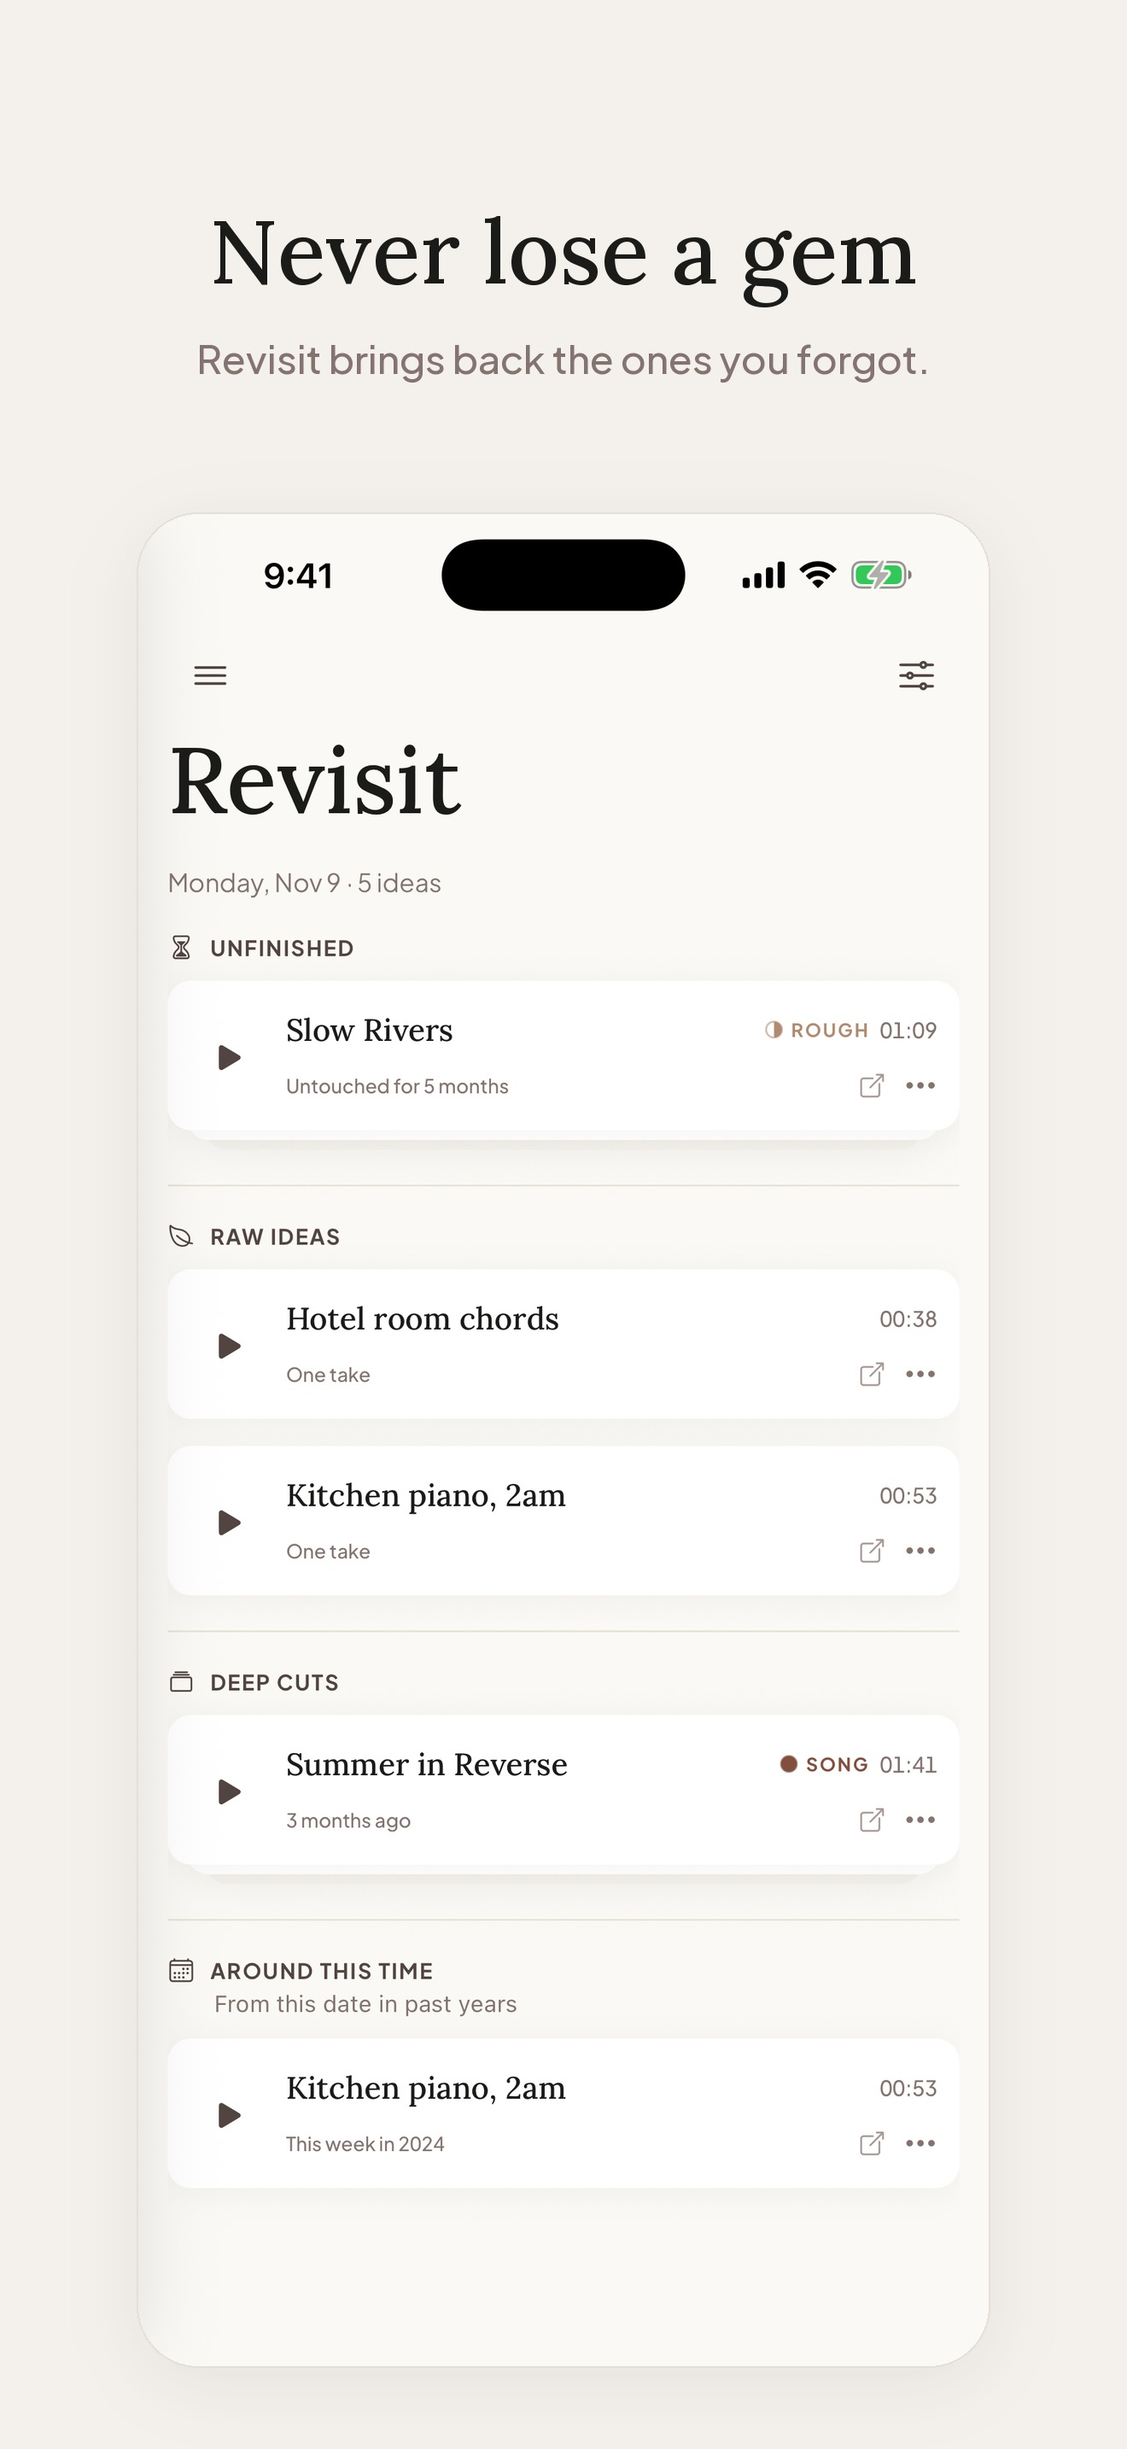
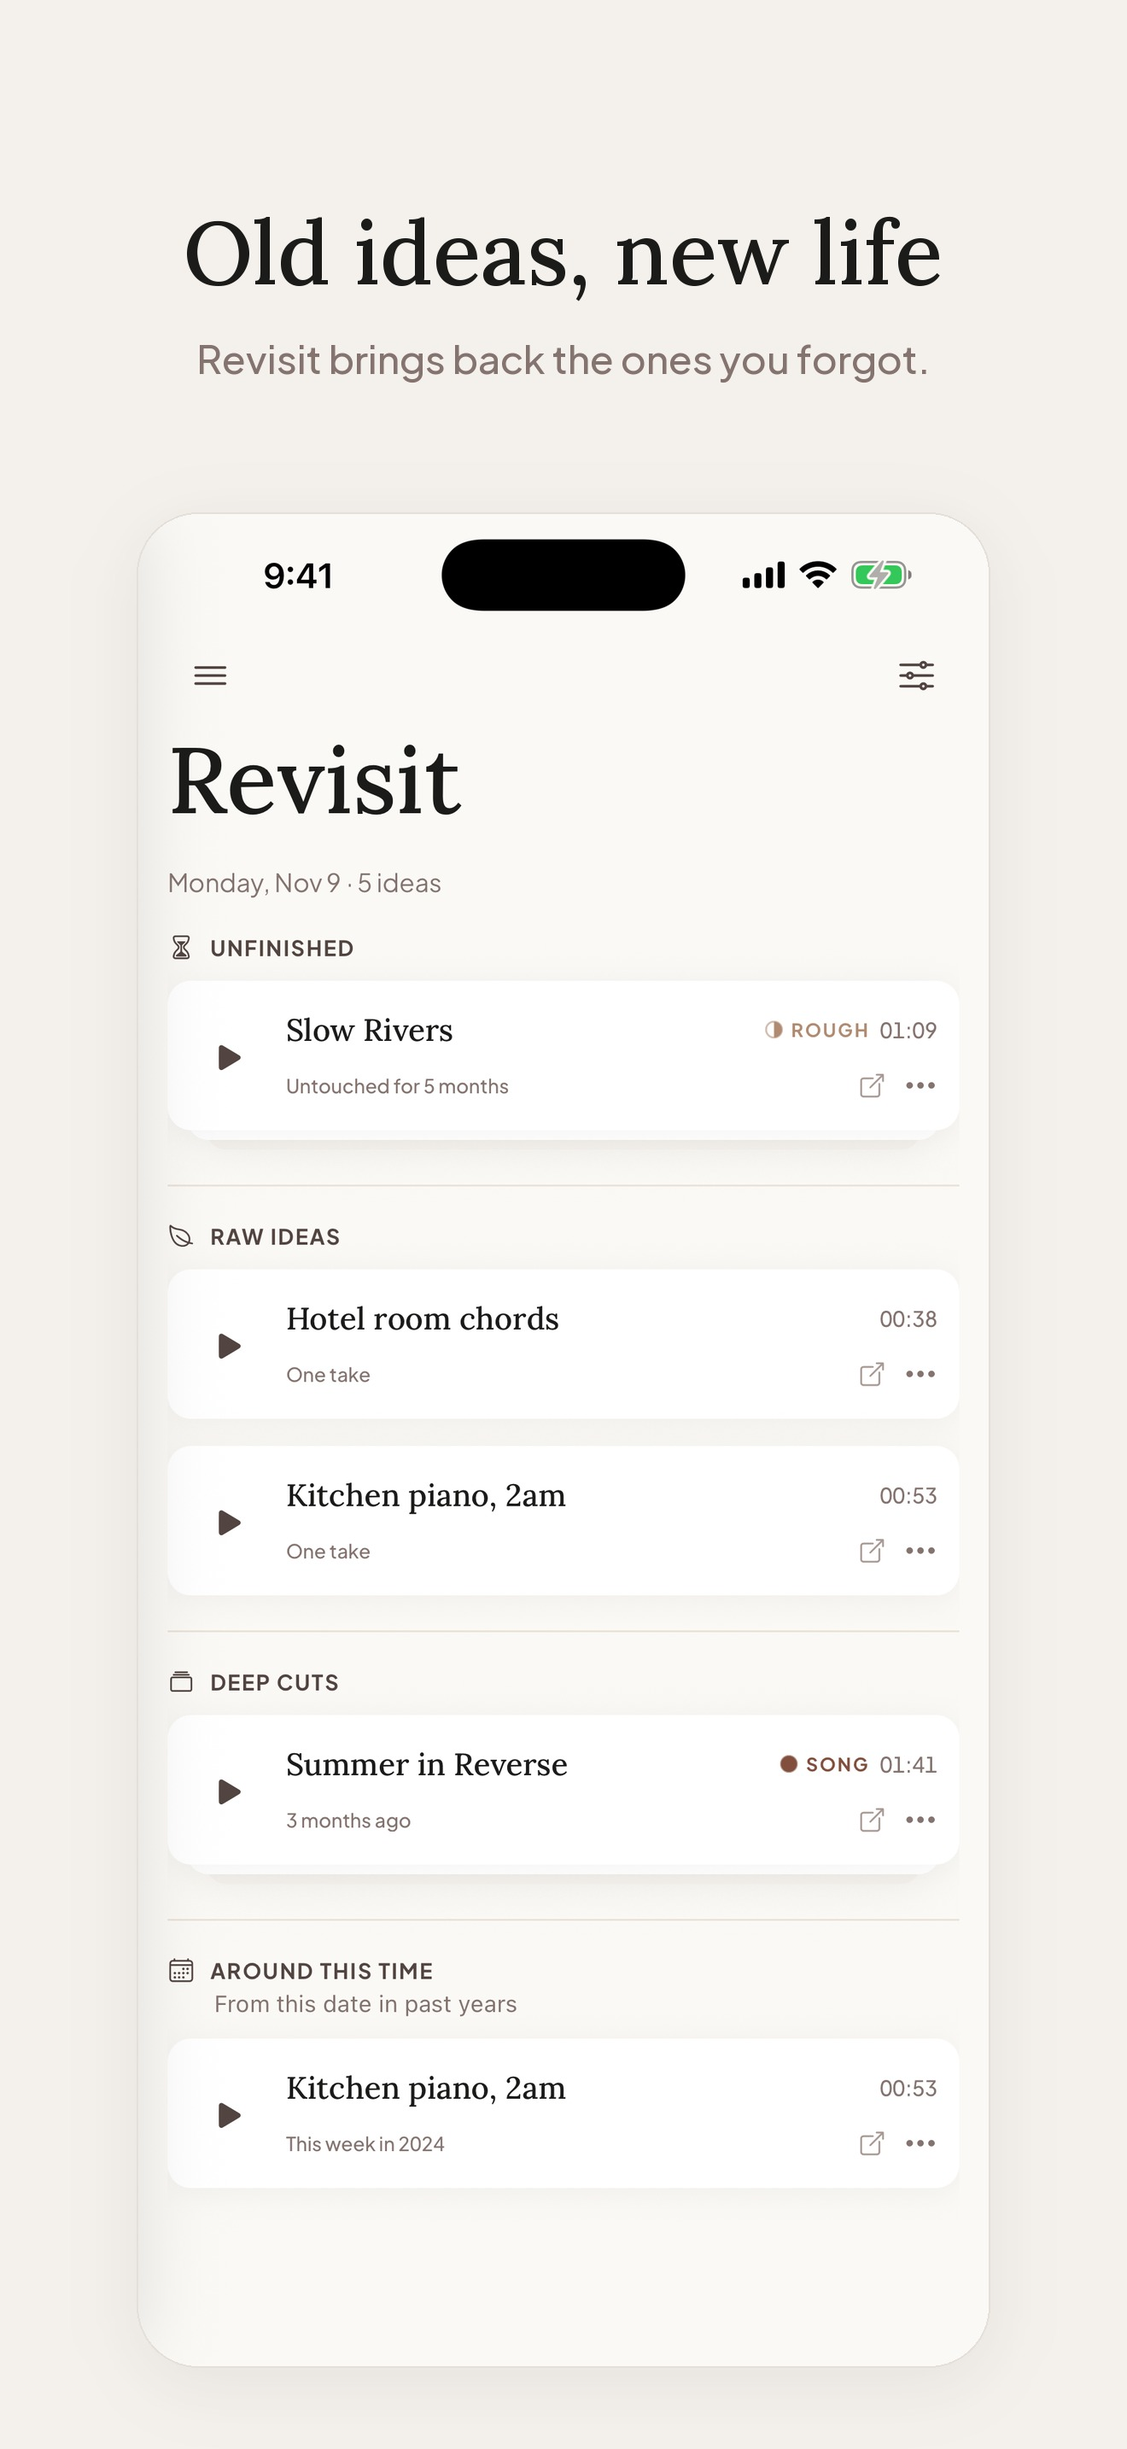
Store copy: the Play short description ends on "Never lose a gem"; screenshot 7 says "Old ideas, new life"
Founder preferred "Never lose a gem" over "Write, finish, learn the set" (all five
languages, each under 80). The Revisit screenshot carried that line too, right under the
short description on Play, so its caption moves to "Old ideas, new life" in five
languages (English re-cut for both stores). compose-screenshots.py: localized captions via
STORE_LANG, Hebrew right-to-left.

Changed region(s): [[0.1553, 0.0931, 0.7455, 0.1241], [0.7765, 0.0931, 0.8386, 0.1241]]

diff --git a/scripts/store/compose-screenshots.py b/scripts/store/compose-screenshots.py
@@ -11,6 +11,11 @@ library staged by the dev-only "Store library (dev)" collection menu row
   python3 scripts/store/compose-screenshots.py apple docs/store-assets/raw docs/store-assets/apple/screenshots
   python3 scripts/store/compose-screenshots.py play  docs/store-assets/raw docs/store-assets/play/screenshots
 
+Localized sets (2026-11-16): STORE_LANG=es|de|pt|he, raw captures in raw/<lang>/ (the app's
+own interface in that language; the demo library's song content stays as staged), out to
+<store>/screenshots/<lang>/. Hebrew draws in Frank Ruhl Libre / Heebo, reordered for
+right-to-left with python-bidi (Pillow here has no raqm).
+
 Apple: 1320x2868 (6.9"). Play: 1080x2160 (Play allows at most 2:1).
 Captions approved by the founder 2026-11-09 (store-truth.md section 6).
 """
@@ -21,6 +26,12 @@ from PIL import Image, ImageDraw, ImageFilter, ImageFont
 ROOT = os.path.join(os.path.dirname(__file__), "../../node_modules/@expo-google-fonts")
 LORA = f"{ROOT}/lora/500Medium/Lora_500Medium.ttf"
 JAKARTA = f"{ROOT}/plus-jakarta-sans/500Medium/PlusJakartaSans_500Medium.ttf"
+LANG = os.environ.get("STORE_LANG", "en")
+HEBREW = LANG == "he"
+if HEBREW:
+    from bidi import get_display
+    LORA = f"{ROOT}/frank-ruhl-libre/500Medium/FrankRuhlLibre_500Medium.ttf"
+    JAKARTA = f"{ROOT}/heebo/500Medium/Heebo_500Medium.ttf"
 TARGET = sys.argv[1]
 RAW = sys.argv[2]
 OUT = sys.argv[3]
@@ -35,6 +46,50 @@ W, H = (1320, 2640) if TARGET == "play" else (1320, 2868)
 SCREEN_W, SCREEN_TOP = (900, 600) if TARGET == "play" else (1000, 600)
 # Neither store bleeds: the whole screen shows (BLEED kept for a future frame that wants it).
 BLEED = False
+# Captions per language: the same eight beats, the app's own words for its features.
+CAPTIONS = {
+    "es": [
+        ("Atrápala antes de que se escape", "Un toque y ya estás grabando."),
+        ("Cada idea se vuelve canción", "Tomas, versiones e ideas sueltas en un boceto."),
+        ("Letra y acordes, cada borrador guardado", "Escribe, cifra y transporta en un solo lugar."),
+        ("Apréndela y súmale partes", "Repite lo difícil, bájale la velocidad, suma otra parte."),
+        ("¿Atascado en un verso?", "Chispa de letras: ejercicios de escritura para salir del bloqueo."),
+        ("Todo en orden", "Espacios de trabajo y colecciones para cada proyecto."),
+        ("Viejas ideas, nueva vida", "Revisitar te devuelve las que olvidaste."),
+        ("Envía la canción, no solo el audio", "Letra, acordes, notas y marcas van con ella."),
+    ],
+    "de": [
+        ("Halt sie fest, bevor sie weg ist", "Einmal tippen, und du nimmst auf."),
+        ("Aus jeder Idee wird ein Song", "Takes, Versionen und Nebenideen in einer Skizze."),
+        ("Text und Akkorde, jeder Entwurf bleibt", "Schreiben, Akkorde setzen und transponieren an einem Ort."),
+        ("Erst lernen, dann Spuren drauf", "Die schwere Stelle loopen, langsamer machen, eine Stimme dazu."),
+        ("Hängst du an einer Zeile?", "Textfunke: Schreibübungen gegen die Blockade."),
+        ("Alles in Ordnung", "Arbeitsbereiche und Sammlungen für jedes Projekt."),
+        ("Alte Ideen, neues Leben", "Wiederentdecken bringt die vergessenen zurück."),
+        ("Schick den Song, nicht nur das Audio", "Text, Akkorde, Notizen und Markierungen kommen mit."),
+    ],
+    "pt": [
+        ("Capture antes que escape", "Um toque e você já está gravando."),
+        ("Toda ideia vira música", "Takes, versões e ideias soltas em um esboço."),
+        ("Letra e acordes, cada rascunho guardado", "Escreva, cifre e transponha em um só lugar."),
+        ("Aprenda e acrescente camadas", "Repita o trecho difícil, desacelere, grave outra parte."),
+        ("Travou num verso?", "Faísca de letras: exercícios de escrita para destravar."),
+        ("Tudo organizado", "Espaços de trabalho e coleções para cada projeto."),
+        ("Ideias antigas, vida nova", "Revisitar traz de volta as que você esqueceu."),
+        ("Envie a música, não só o áudio", "Letra, acordes, notas e marcações vão junto."),
+    ],
+    "he": [
+        ("לתפוס לפני שזה בורח", "נגיעה אחת ואתם מקליטים."),
+        ("כל רעיון גדל לשיר", "טייקים, גרסאות ורעיונות צדדיים בסקיצה אחת."),
+        ("מילים ואקורדים, כל טיוטה נשמרת", "לכתוב, להוסיף אקורדים ולעשות טרנספוזיציה במקום אחד."),
+        ("ללמוד, ואז להוסיף שכבות", "לחזור על הקטע הקשה, להאט, להוסיף עוד תפקיד."),
+        ("נתקעתם בשורה?", "ניצוץ למילים: תרגילי כתיבה שעוזרים לצאת מהמחסום."),
+        ("הכול מסודר", "מרחבי עבודה ואוספים לכל פרויקט."),
+        ("רעיונות ישנים, חיים חדשים", "רעיונות ששכחתם חוזרים אליכם."),
+        ("לשלוח את השיר, לא רק את האודיו", "מילים, אקורדים, הערות וסימונים נשלחים איתו."),
+    ],
+}
+
 FRAMES = [
     ("01-capture", "recorder", "Catch it before it's gone", "Tap once and you're recording."),
     ("02-sketch", "sketch-b", "Every idea grows into a song", "Takes, versions and side ideas in one sketch."),
@@ -42,9 +97,14 @@ FRAMES = [
     ("04-practice", "practice-sound", "Learn it, then layer it", "Loop the hard part, slow it down, add another part."),
     ("05-words", "words-a", "Stuck on a line?", "Lyric Spark: writing exercises to get past the block."),
     ("06-organize", "collection", "Get organized", "Workspaces and collections for every project."),
-    ("07-revisit", "revisit-b", "Never lose a gem", "Revisit brings back the ones you forgot."),
+    ("07-revisit", "revisit-b", "Old ideas, new life", "Revisit brings back the ones you forgot."),
     ("08-send", "received-player", "Send the song, not just the audio", "Lyrics, chords, notes and marks go with it."),
 ]
+
+
+def shown(text):
+    """The line as drawn: Hebrew reordered for a left-to-right renderer."""
+    return get_display(text) if HEBREW else text
 
 
 def wrap(draw, text, font, width):
@@ -54,7 +114,7 @@ def wrap(draw, text, font, width):
         return lines
     words = text.split()
     best = min(
-        (max(draw.textlength(" ".join(words[:i]), font=font), draw.textlength(" ".join(words[i:]), font=font)), i)
+        (max(draw.textlength(shown(" ".join(words[:i])), font=font), draw.textlength(shown(" ".join(words[i:])), font=font)), i)
         for i in range(1, len(words))
     )
     return [" ".join(words[: best[1]]), " ".join(words[best[1] :])]
@@ -64,7 +124,7 @@ def greedy(draw, text, font, width):
     words, lines, cur = text.split(), [], ""
     for word in words:
         trial = f"{cur} {word}".strip()
-        if draw.textlength(trial, font=font) <= width or not cur:
+        if draw.textlength(shown(trial), font=font) <= width or not cur:
             cur = trial
         else:
             lines.append(cur)
@@ -86,11 +146,11 @@ def frame(name, raw, title, sub):
     top = SCREEN_TOP
     y = 120 + (top - 120 - block) // 2
     for line in title_lines:
-        draw.text((W / 2, y), line, font=title_font, fill=INK, anchor="mt")
+        draw.text((W / 2, y), shown(line), font=title_font, fill=INK, anchor="mt")
         y += 128
     y += 22
     for line in sub_lines:
-        draw.text((W / 2, y), line, font=sub_font, fill=SECONDARY, anchor="mt")
+        draw.text((W / 2, y), shown(line), font=sub_font, fill=SECONDARY, anchor="mt")
         y += 64
 
     screen = Image.open(f"{RAW}/{raw}.png").convert("RGB")
@@ -123,8 +183,12 @@ def frame(name, raw, title, sub):
         canvas.save(f"{OUT}/{name}.jpg", quality=92)
 
 
-for f in FRAMES:
+os.makedirs(OUT, exist_ok=True)
+for index, f in enumerate(FRAMES):
     if len(sys.argv) > 4 and f[0] not in sys.argv[4:]:
         continue
-    frame(*f)
-    print(f[0])
+    name, raw, title, sub = f
+    if LANG != "en":
+        title, sub = CAPTIONS[LANG][index]
+    frame(name, raw, title, sub)
+    print(name)

diff --git a/docs/product-plan/store-listing-translations.md b/docs/product-plan/store-listing-translations.md
@@ -24,7 +24,7 @@ keywords ≤ 100, description ≤ 4000.
 ## Spanish (es-419, es-ES; Apple: Mexico, Spain)
 
 - **Apple subtitle:** `Un rincón para tus canciones`
-- **Play short description:** `Un rincón tranquilo para componer y practicar. Escribe, termina, prepara el set.`
+- **Play short description:** `Un rincón tranquilo para componer y practicar. Que no se pierda ninguna joya.`
 - **Apple promotional text:** `Cientos de notas de voz, por fin en orden. Ordena ideas en colecciones, encuentra cualquiera en segundos y hazla canción. Luego envíala a tu banda, lista para tocar.`
 - **Apple keywords:** `componer,compositor,letras,acordes,nota de voz,grabadora,ideas,setlist,afinador,metrónomo,demo`
 
@@ -60,7 +60,7 @@ PARA LA BANDA
 PRACTICA
 • Baja la velocidad de las partes difíciles, cambia el tono y repite un pasaje en loop hasta dominarlo
 • Marca el verso y el coro, y señala los momentos importantes
-• Afinador y metrónomo incluidos
+• Afinador, y metrónomo con patrones de práctica: acentúa o silencia cualquier pulso
 
 COPIA DE SEGURIDAD Y EXPORTACIÓN
 • Copia de seguridad y exportación a Archivos, iCloud Drive o Google Drive
@@ -90,7 +90,7 @@ Política de privacidad: https://songnook.app/privacy
 ## German (de-DE)
 
 - **Apple subtitle:** `Ein stiller Winkel für Songs`
-- **Play short description:** `Ein stiller Winkel zum Songschreiben und Üben. Schreib, vollende, lern das Set.`
+- **Play short description:** `Ein stiller Winkel zum Songschreiben und Üben. Kein Juwel geht verloren.`
 - **Apple promotional text:** `Hunderte Sprachmemos, endlich in Ordnung. Sortiere Ideen in Sammlungen, finde jede in Sekunden und mach einen Song daraus. Dann schick ihn spielbereit an deine Band.`
 - **Apple keywords:** `songwriting,songwriter,songtext,akkorde,sprachmemo,rekorder,songideen,setlist,stimmgerät,metronom`
 
@@ -126,7 +126,7 @@ FÜR DIE BAND
 ÜBEN
 • Mach schwere Stellen langsamer, ändere die Tonart und loope eine Passage, bis sie sitzt
 • Markiere Strophe und Refrain und die Stellen, auf die es ankommt
-• Stimmgerät und Metronom inklusive
+• Stimmgerät und Metronom mit Übungsmustern: jeden Schlag betonen oder stummschalten
 
 BACKUP UND EXPORT
 • Backup und Export nach Dateien, iCloud Drive oder Google Drive
@@ -156,7 +156,7 @@ Datenschutzerklärung: https://songnook.app/privacy
 ## Portuguese (pt-BR)
 
 - **Apple subtitle:** `Um canto para suas músicas`
-- **Play short description:** `Um canto tranquilo para compor e praticar. Escreva, termine, aprenda o set.`
+- **Play short description:** `Um canto tranquilo para compor e praticar. Nenhuma joia se perde.`
 - **Apple promotional text:** `Centenas de memos de voz, enfim em ordem. Organize ideias em coleções, ache qualquer uma em segundos e faça dela uma música. Depois, envie à banda, pronta para tocar.`
 - **Apple keywords:** `compor,compositor,letra,acordes,memo de voz,gravador,ideias,setlist,afinador,metrônomo,demo,cifra`
 
@@ -192,7 +192,7 @@ PARA A BANDA
 PRATIQUE
 • Desacelere as partes difíceis, mude o tom e faça loop de um trecho até ele estar nas suas mãos
 • Marque o verso e o refrão, e os momentos que importam
-• Afinador e metrônomo incluídos
+• Afinador, e metrônomo com padrões de estudo: acentue ou silencie qualquer tempo
 
 BACKUP E EXPORTAÇÃO
 • Backup e exportação para Arquivos, iCloud Drive ou Google Drive
@@ -224,7 +224,7 @@ Política de Privacidade: https://songnook.app/privacy
 Plural address (אתם), as the app speaks.
 
 - **Apple subtitle:** `פינה שקטה לסיים בה שירים`
-- **Play short description:** `פינה שקטה לכתיבת שירים ולתרגול. לכתוב, לסיים, ללמוד את הסט.`
+- **Play short description:** `פינה שקטה לכתיבת שירים ולתרגול. אף פנינה לא הולכת לאיבוד.`
 - **Apple promotional text:** `מאות הקלטות קוליות, סוף סוף מסודרות. למיין רעיונות לאוספים, למצוא כל אחד בשניות ולהפוך אותו לשיר. ואז לשלוח אותו ללהקה, מוכן לנגינה.`
 - **Apple keywords:** `כתיבת שירים,מילים,אקורדים,הקלטה,תזכיר קולי,רעיונות,סטליסט,טיונר,מטרונום,דמו,שיר`
 
@@ -260,7 +260,7 @@ Plural address (אתם), as the app speaks.
 לתרגל
 • להאט את הקטעים הקשים, לשנות סולם ולעשות לופ על קטע עד שהוא יושב בידיים
 • לסמן בית ופזמון, ואת הרגעים שחשובים
-• טיונר ומטרונום מובנים
+• טיונר, ומטרונום עם תבניות תרגול: להדגיש או להשתיק כל פעמה
 
 גיבוי וייצוא
 • גיבוי וייצוא לקבצים, ל־iCloud Drive או ל־Google Drive

diff --git a/docs/product-plan/store-truth.md b/docs/product-plan/store-truth.md
@@ -197,7 +197,7 @@ on organization and the band. What's new for 1.0.2 below; all five languages in
 - **Name:** SongNook
 - **Tagline (both stores, the intro screen and the feature graphic):** A quiet corner to finish songs.
 - **Apple subtitle (30):** `A quiet corner to finish songs`
-- **Play short description (80):** `A quiet corner for songwriting and practice. Write, finish, learn the set.` (2026-11-15; was `A quiet corner to finish songs. Record, organize, rehearse, never lose a gem.`)
+- **Play short description (80):** `A quiet corner for songwriting and practice. Never lose a gem.` (61; founder 2026-11-16. Was `A quiet corner for songwriting and practice. Write, finish, learn the set.` (2026-11-15); before that `A quiet corner to finish songs. Record, organize, rehearse, never lose a gem.`)
 - **Apple promotional text (170):** `Hundreds of voice memos, finally in order. Sort ideas into collections, find any one in seconds, and turn it into a song. Then send it to your band, ready to play.` (163; 2026-11-15, founder picked: organization first, then the band. Replaced the 2026-11-14 line, which repeated the description's opening right above it. Promotional text changes any time, no new version.)
 - **Apple keywords (100):** `songwriting,songwriter,lyrics,chords,voice memo,recorder,song ideas,setlist,tuner,metronome,demo`
 - **Categories:** Apple: Music, then Productivity.
@@ -239,7 +239,7 @@ FOR THE BAND
 PRACTICE
 • Slow down the tricky parts, change the key, and loop a passage until it's in your hands
 • Mark the verse and chorus, and pin the moments that matter
-• Tuner and metronome built in
+• A tuner, and a metronome with practice patterns: accent or silence any beat
 
 BACKUP AND EXPORT
 • Back up and export to Files, iCloud Drive or Google Drive
@@ -297,7 +297,7 @@ plus the lines saved as a DRAFT on the default listing, not yet sent for review.
 | 4 | Player: sections, pin, layer, chorus loop, 0.75×, +2 st | Learn it, then layer it / Loop the hard part, slow it down, add another part. (2026-11-14) |
 | 5 | Borrowed Words page with phrases marked | Stuck on a line? / Lyric Spark: writing exercises to get past the block. (2026-11-14) |
 | 6 | Album demos collection | Get organized / Workspaces and collections for every project. |
-| 7 | Revisit | Never lose a gem / Revisit brings back the ones you forgot. |
+| 7 | Revisit | Old ideas, new life / Revisit brings back the ones you forgot. (2026-11-16: was "Never lose a gem", now the Play short description's) |
 | 8 | A received sketch in the player: marks, layer, lyrics, chart, the sender's note | Send the song, not just the audio / Lyrics, chords, notes and marks go with it. |
 
 **Translations:** the Hebrew, Spanish, German and Portuguese listings are still to do.
